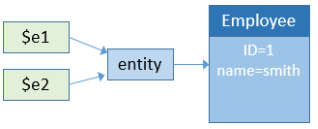
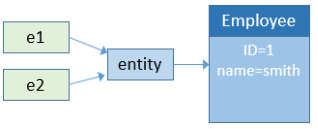
improved orda

Changed region(s): [[0.0566, 0.5891, 0.1698, 0.7132], [0.0566, 0.2171, 0.1698, 0.3411]]

diff --git a/docs/concepts/orda/data.md b/docs/concepts/orda/data.md
@@ -65,23 +65,23 @@ This is illustrated by the following graphic:
 
 Note however that entities refer to the same record. In all cases, if you call the `entity.save()` method, the record will be updated (except in [case of conflict](#entity-locking)).
 
-In fact, `$e1` and `$e2` are not the entity itself, but a reference to the entity. It means that you can pass them directly to any function or method, and it will act like a pointer. For example:
+In fact, `e1` and `e2` are not the entity itself, but a reference to the entity. It means that you can pass them directly to any function or method, and it will act like a pointer. For example:
 
 ```qs
- For each(entity,selection)
+ forEach(entity,selection)
     do_Capitalize(entity)
- End for each
+ end
 ```
  
 And the *do_Capitalize* method is:
 
 ```qs
- #DECLARE (entity : cs.EmployeeEntity)
- var name : Text
+ declare (entity : cs.EmployeeEntity)
+ var name : string
  name=entity.lastname
- if(name!=Null)
-    name=Uppercase(Substring(name,1,1))+Lowercase(Substring(name,2))
- end if
+ if(name!=null)
+    name=uppercase(substring(name,1,1))+lowercase(substring(name,2))
+ end
  entity.lastname=name
 ```
  
@@ -89,15 +89,16 @@ You can handle entities like any other object and pass their references directly
 
 :::note
 
-You can use as many entities as you need at the same time, there is no automatic lock on an entity (see [Entity locking](#entity-locking)). When an entity is loaded, it uses the [lazy loading](glossary#lazy-loading) mechanism, which means that only the needed information is loaded.
+You can use as many entities as you need at the same time, there is no automatic lock on an entity (see [Entity locking](#entity-locking)). When an entity is loaded, it uses the [lazy loading](glossary.md#lazy-loading) mechanism, which means that only the needed information is loaded.
 
 :::
 
 ## Using entity attributes  
 
-Entity attributes store or reference data and map corresponding fields in the corresponding table of the database, with regards to their [`kind`](../../language/DataClassAttributeClass.md#kind). Entity attributes of the **storage** kind can be set or get as simple properties of the entity object, while entity of the **relatedEntity** or **relatedEntities** kind will return an entity or an entity selection. Entity attributes of the [**calculated**](orda-classes.md#computed-attributes) and [**alias**](orda-classes.md#alias-attributes) kind can return any value type.  
+Entity attributes store or reference data and map corresponding fields in the corresponding table of the database, with regards to their [`kind`](../../language/DataClassClass.md#attributename). Entity attributes of the **storage** kind can be set or get as simple properties of the entity object, while entity of the **relatedEntity** or **relatedEntities** kind will return an entity or an entity selection. Entity attributes of the [**calculated**](orda-classes.md#computed-attributes) and [**alias**](orda-classes.md#alias-attributes) kind can return any value type.  
 
 For example, to set a storage attribute:
+
 
 ```qs
  entity=ds.Employee.get(1) //get employee attribute with ID 1
@@ -107,7 +108,7 @@ For example, to set a storage attribute:
 ```
 
 
-Accessing a related attribute depends on the attribute [`kind`](../../language/DataClassAttributeClass.md#kind). For example, with the following structure:
+Accessing a related attribute depends on the attribute [`kind`](../../language/DataClassClass.md#attributename). For example, with the following structure:
 
 ![](img/structure2.png)
 
@@ -128,7 +129,7 @@ Each employee can be a manager and can have a manager. To get the manager of the
 
 ```qs
  var myEmp : cs.EmployeeEntity
- var manLev2 : Text
+ var manLev2 : string
  myEmp=ds.Employee.get(50)
  manLev2=myEmp.manager.manager.lastname
 ```
@@ -156,7 +157,7 @@ To assign a value directly to the "employer" attribute, you must pass an existin
  emp.save()
 ```
 
-ORDA provides an additional facility for entering a relation attribute for a "many" entity related to a "one" entity: you pass the primary key of the "one" entity directly when assigning a value to the relation attribute. For this to work, you pass data of type Number or Text (the primary key value) to the relation attribute. ORDA then automatically takes care of searching for the corresponding entity in the dataclass. For example:
+ORDA provides an additional facility for entering a relation attribute for a "many" entity related to a "one" entity: you pass the primary key of the "one" entity directly when assigning a value to the relation attribute. For this to work, you pass the primary key value (number or string) to the relation attribute. ORDA then automatically takes care of searching for the corresponding entity in the dataclass. For example:
 
 ```qs
  var emp : cs.EmployeeEntity
@@ -198,17 +199,17 @@ You can simultaneously create and use as many different entity selections as you
 
 :::note
 
-An entity selection is usually unordered, but it can be ordered (see [Ordered or unordered entity selection](data-model#ordered-or-unordered-entity-selection)).
+An entity selection is usually unordered, but it can be ordered (see [Ordered or unordered entity selection](data-model.md#ordered-or-unordered-entity-selection)).
 
 :::
 
 ### Entity selections and Storage attributes  
 
-All storage attributes (text, number, boolean, date) are available as properties of entity selections as well as of entities. When used in conjunction with an entity selection, a scalar attribute returns a collection of scalar values. For example:
+All storage attributes (string, number, boolean, date) are available as properties of entity selections as well as of entities. When used in conjunction with an entity selection, a scalar attribute returns a collection of scalar values. For example:
 
 ```qs
  var locals : cs.PersonSelection
- var localEmails : Collection
+ var localEmails : collection
  locals=ds.Person.query("city = :1","San Jose") //entity selection of person
  localEmails=locals.emailAddress //collection of email addresses (strings)
 ```

diff --git a/docs/concepts/orda/data-model.md b/docs/concepts/orda/data-model.md
@@ -74,7 +74,7 @@ mydataclass=objectCopy(ds.Employee) //returns null
 
 The dataclass properties are however enumerable:
 
-```
+```qs
  var names : collection
  names=objectKeys(ds.Employee)
 //names contains the names of all the dataclass attributes
